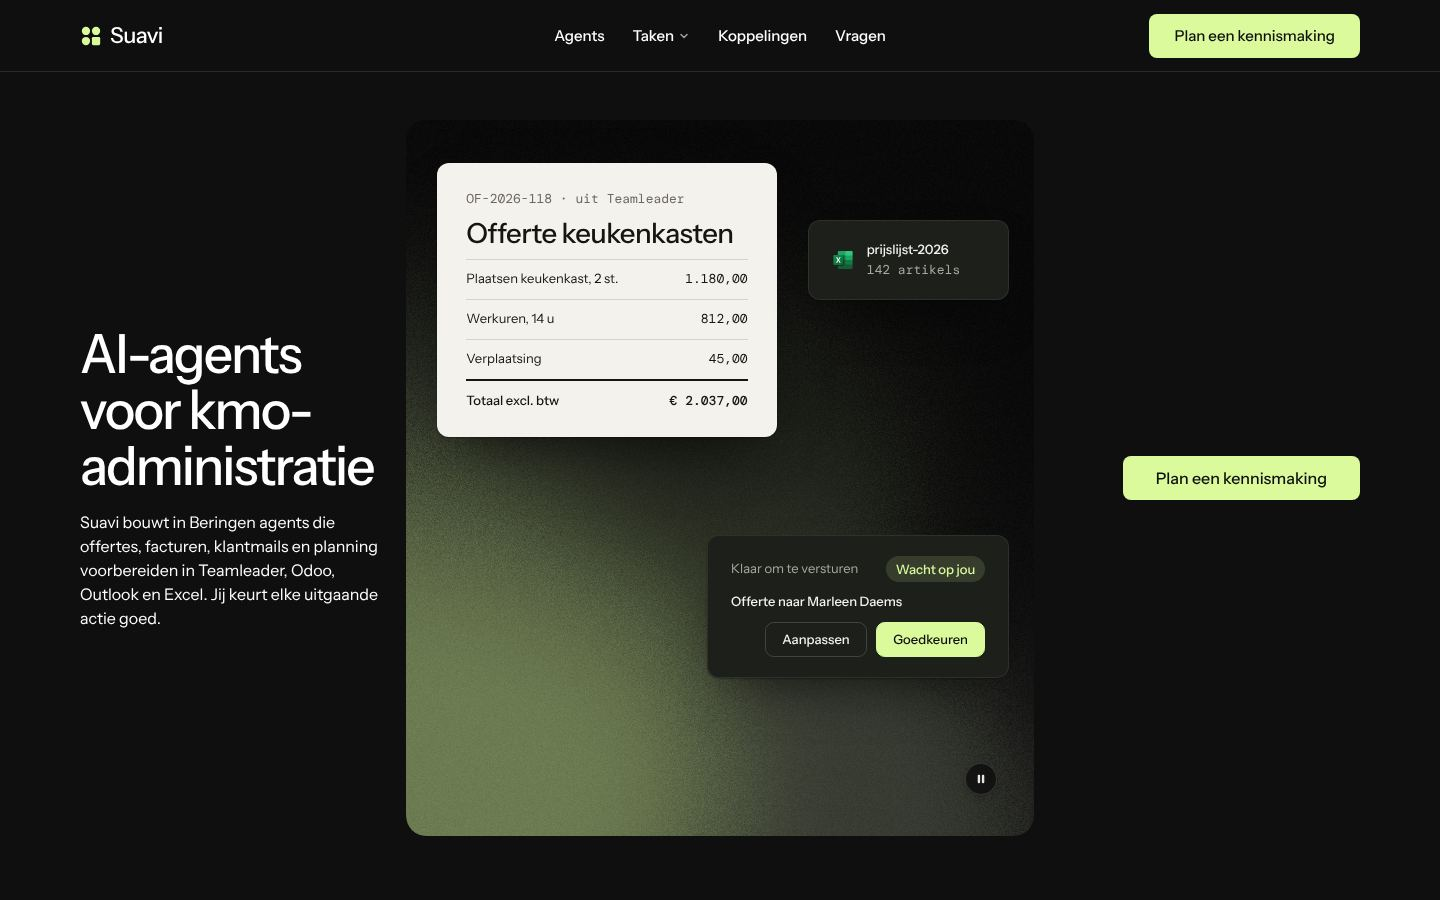
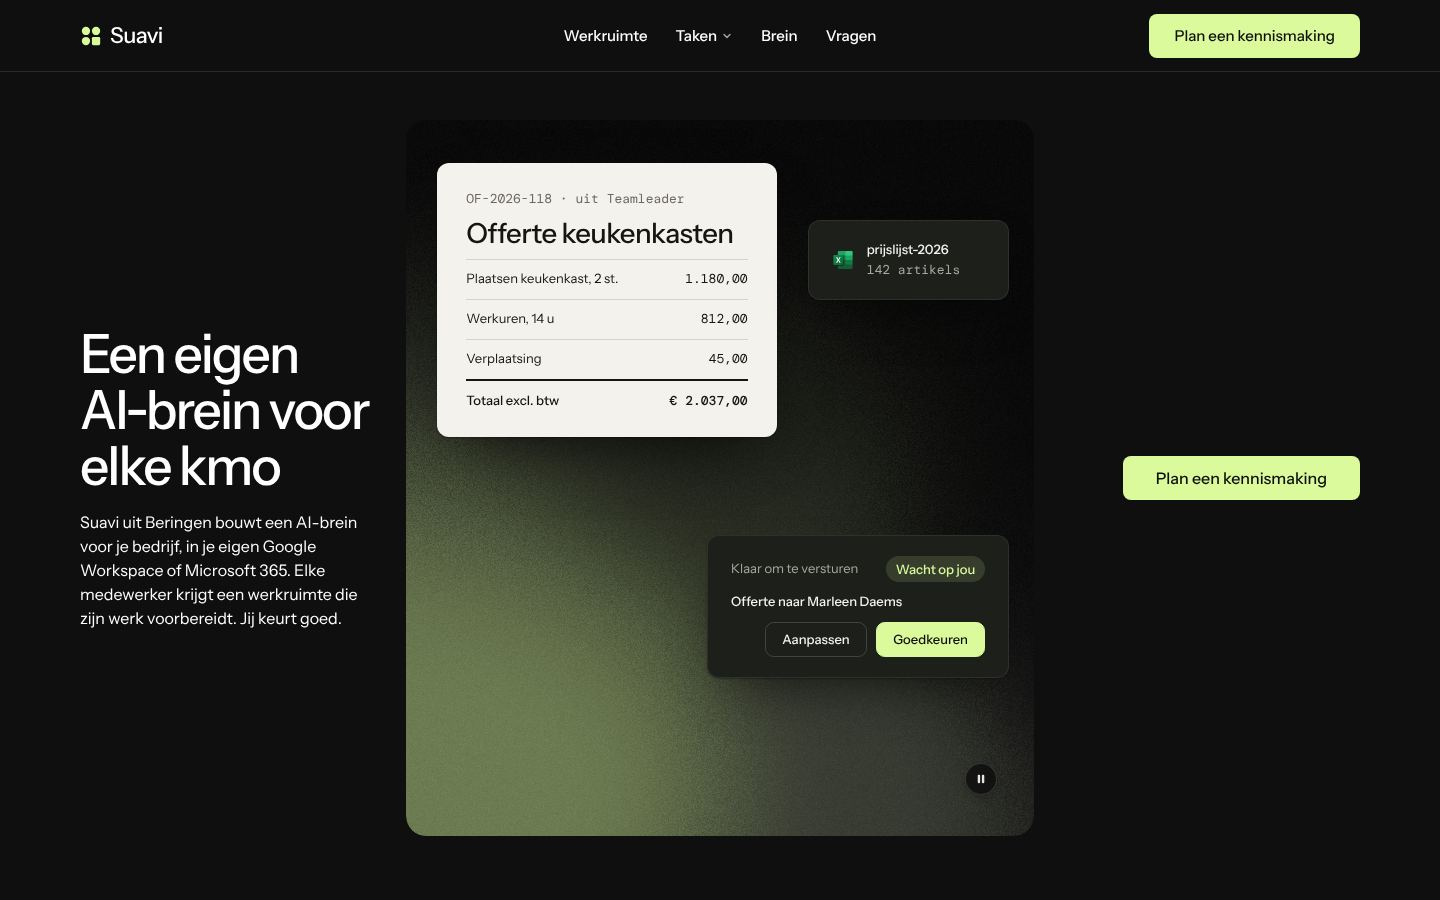
Reposition Suavi site: own AI brain per company, own workspace per employee
Hero, app frame, integrations and FAQ now tell the per-client story: one AI
brain built for each company, a workspace for every employee, running in the
client's own Google Workspace or Microsoft 365. New bowtie diagram from the
client's systems through the brain to each workspace. Gate passes.

Claude-Session: https://claude.ai/code/session_01163rCPn5ZEGJfadxcoxAdc

Changed region(s): [[0.0312, 0.3733, 0.2812, 0.7156], [0.375, 0.0311, 0.625, 0.0622]]

diff --git a/sites/suavi/index.html b/sites/suavi/index.html
@@ -3,11 +3,11 @@
 <head>
 <meta charset="utf-8">
 <meta name="viewport" content="width=device-width, initial-scale=1, viewport-fit=cover">
-<title>Suavi: AI-agents en automatisering voor kmo's in Limburg</title>
-<meta name="description" content="Suavi uit Beringen bouwt maatwerk-automatisering en AI-agents die je administratie voorbereiden in je eigen systemen, met een menselijke goedkeuring op elke uitgaande actie.">
+<title>Suavi: een AI-brein en eigen werkruimtes voor kmo's in Limburg</title>
+<meta name="description" content="Suavi uit Beringen bouwt een AI-brein voor je bedrijf en een eigen werkruimte voor elke medewerker, in je eigen Google Workspace of Microsoft 365. Niets vertrekt zonder goedkeuring.">
 <meta property="og:type" content="website">
-<meta property="og:title" content="Suavi: AI-agents voor kmo-administratie">
-<meta property="og:description" content="Offertes, facturen, klantmails en planning voorbereid in Teamleader, Odoo, Outlook en Excel. Jij keurt goed.">
+<meta property="og:title" content="Suavi: een eigen AI-brein voor elke kmo">
+<meta property="og:description" content="Eén AI-brein per bedrijf, een eigen werkruimte per medewerker. Gebouwd en beheerd door Suavi.">
 <meta property="og:image" content="share.jpg">
 <meta name="twitter:card" content="summary_large_image">
 <link rel="icon" href="favicon.svg" type="image/svg+xml">
@@ -132,13 +132,14 @@
   /* the hero's button at the page's one button height (one action, one look) */
   .hero--triptych .hero__cta .btn { height: var(--btn-h, 44px); font-size: var(--t-body); }
   .close__word { line-height: 1; }
+  #bouwer { overflow: clip; }
   #vragen .grid + .grid { margin-top: 0; }
   @media (min-width: 640px) { #vragen .grid + .grid .faq { border-top: 0; } }
   #taken .panel { --p-h: 336px; }
   @media (max-width: 1279px) { #taken .panel { --p-h: 256px; } }
   @media (max-width: 639px) { #taken .panel { --p-h: 140px; } }
-  #koppelingen .frame { --ratio: 80%; }
-  @media (max-width: 639px) { #koppelingen .frame { --ratio: 76%; } }
+  #brein .frame { --ratio: 80%; }
+  @media (max-width: 639px) { #brein .frame { --ratio: 76%; } }
 </style>
 </head>
 <body>
@@ -153,7 +154,7 @@
     <a class="skip-link" href="#top">Naar de inhoud</a>
     <a class="nav__logo" href="#top"><span class="mark" data-mark="dots" aria-hidden="true"></span>Suavi</a>
     <nav class="nav__links" aria-label="Hoofdmenu">
-      <div class="nav__item"><a class="nav__link" href="#agents">Agents</a></div>
+      <div class="nav__item"><a class="nav__link" href="#werkruimte">Werkruimte</a></div>
       <div class="nav__item">
         <a class="nav__link" href="#taken">Taken <svg class="chev" viewBox="0 0 12 12" aria-hidden="true"><path d="M3 4.5l3 3 3-3" fill="none" stroke="currentColor" stroke-width="1.5" stroke-linecap="round" stroke-linejoin="round"/></svg></a>
         <div class="nav__menu">
@@ -171,7 +172,7 @@
           </div>
         </div>
       </div>
-      <div class="nav__item"><a class="nav__link" href="#koppelingen">Koppelingen</a></div>
+      <div class="nav__item"><a class="nav__link" href="#brein">Brein</a></div>
       <div class="nav__item"><a class="nav__link" href="#vragen">Vragen</a></div>
     </nav>
     <div class="nav__actions">
@@ -187,10 +188,10 @@
   <section class="hero hero--triptych" data-enter aria-labelledby="hero-h">
     <div class="wrap"><div class="hero-text grid hero__grid">
       <div class="span-3">
-        <h1 id="hero-h">AI-agents voor kmo-administratie</h1>
-        <p class="hero__lead">Suavi bouwt in Beringen agents die offertes, facturen, klantmails en planning voorbereiden in Teamleader, Odoo, Outlook en Excel. Jij keurt elke uitgaande actie goed.</p>
+        <h1 id="hero-h">Een eigen AI&#8209;brein voor elke kmo</h1>
+        <p class="hero__lead">Suavi uit Beringen bouwt een AI-brein voor je bedrijf, in je eigen Google Workspace of Microsoft 365. Elke medewerker krijgt een werkruimte die zijn werk voorbereidt. Jij keurt goed.</p>
       </div>
-      <div class="ly-collage span-6 start-4" data-fx="grain-gradient" data-fx-seed="11" role="img" aria-label="Een offerte, een factuur met mail en een weekplanning die een Suavi-agent heeft voorbereid, elk met een knop om goed te keuren">
+      <div class="ly-collage span-6 start-4" data-fx="grain-gradient" data-fx-seed="11" role="img" aria-label="Een offerte, een factuur met mail en een weekplanning die de assistent in iemands werkruimte heeft voorbereid, elk met een knop om goed te keuren">
         <div class="ly-collage__set is-on">
           <div class="ly-piece pc pc-paper pc-a1" style="left: 5%; top: 6%; width: 54%">
             <span class="meta">OF-2026-118 · uit Teamleader</span>
@@ -247,27 +248,27 @@
     </div></div>
   </section>
 
-  <section class="section" id="agents" aria-labelledby="agents-h">
+  <section class="section" id="werkruimte" aria-labelledby="werkruimte-h">
     <div class="wrap">
       <div class="grid">
-        <div class="span-5"><h2 id="agents-h">De wachtrij van je agent</h2></div>
+        <div class="span-5"><h2 id="werkruimte-h">Een eigen werkruimte per medewerker</h2></div>
         <div class="span-6 start-7 stack-4">
-          <p>De agent leest je mailbox en je CRM, zet het werk klaar en wacht. Jij opent een taak, leest het voorstel en keurt het goed of past het aan.</p>
-          <a class="link" href="#koppelingen">Bekijk de koppelingen</a>
+          <p>Elke medewerker opent zijn eigen werkruimte en ziet wat zijn assistent heeft voorbereid. Een taak openen, het voorstel lezen, goedkeuren of aanpassen.</p>
+          <a class="link" href="#brein">Bekijk hoe het brein werkt</a>
         </div>
       </div>
-      <div class="ui app fill" role="img" aria-label="Het venster van een Suavi-agent: links de wachtrij met offertes, facturen en klantvragen, rechts een klantvraag met het voorgestelde antwoord dat wacht op goedkeuring" data-ui-pause-host>
+      <div class="ui app fill" role="img" aria-label="De werkruimte van één medewerker: links zijn taken met offertes, facturen en klantvragen, rechts een klantvraag met het voorgestelde antwoord dat wacht op goedkeuring" data-ui-pause-host>
         <div class="app__pane app__pane--list">
           <div class="ui ui-panel ui-win" data-ui="window" data-open="Klaar voor jou" data-work="Bezig" data-done="Verstuurd">
             <div class="ui-win__bar">
               <span class="ui-dots" aria-hidden="true"><i></i><i></i><i></i></span>
-              <span class="ui-win__crumb">Suavi <i>/</i> <b>Wachtrij</b></span>
+              <span class="ui-win__crumb">Jouw bedrijf <i>/</i> <b>Mijn werkruimte</b></span>
               <span class="ui-spacer"></span>
               <span class="ui-win__search" aria-hidden="true"><svg class="ui-icon" viewBox="0 0 16 16"><circle cx="7" cy="7" r="4.5"/><path d="m10.5 10.5 3 3"/></svg><span class="ui-win__ph">Zoeken</span><span class="ui-kbd">/</span></span>
             </div>
             <div class="ui-win__body">
               <nav class="ui-win__side" aria-hidden="true">
-                <span class="ui-win__nav is-on"><svg class="ui-icon" viewBox="0 0 16 16"><path d="M2.5 9h3l1 1.5h3l1-1.5h3"/><path d="M2.5 9 4 3.5h8L13.5 9v3.5h-11z"/></svg>Wachtrij<em>11</em></span>
+                <span class="ui-win__nav is-on"><svg class="ui-icon" viewBox="0 0 16 16"><path d="M2.5 9h3l1 1.5h3l1-1.5h3"/><path d="M2.5 9 4 3.5h8L13.5 9v3.5h-11z"/></svg>Taken<em>11</em></span>
                 <span class="ui-win__nav"><svg class="ui-icon" viewBox="0 0 16 16"><circle cx="8" cy="6" r="2.5"/><path d="M3.5 13.5c.6-2.3 2.4-3.5 4.5-3.5s3.9 1.2 4.5 3.5"/></svg>Van mij<em>4</em></span>
                 <span class="ui-win__nav"><svg class="ui-icon" viewBox="0 0 16 16"><path d="m3.5 8.4 2.8 2.8 6.2-6.4"/></svg>Verstuurd</span>
                 <span class="ui-win__label">Weergaven</span>
@@ -337,7 +338,7 @@
     <div class="wrap">
       <div class="group">
         <div class="section-head">
-          <h2 id="taken-h">Vier taken die een agent voorbereidt. <span class="muted">Offertes, facturen, klantmails en planning.</span></h2>
+          <h2 id="taken-h">Vier taken die je assistent voorbereidt. <span class="muted">Offertes, facturen, klantmails en planning.</span></h2>
         </div>
         <div class="grid">
           <article class="card card--row span-6">
@@ -439,21 +440,21 @@
     </div>
   </section>
 
-  <section class="section" id="koppelingen" aria-labelledby="koppelingen-h">
+  <section class="section" id="brein" aria-labelledby="brein-h">
     <div class="wrap">
       <div class="grid">
         <div class="span-5 stack-5">
-          <h2 id="koppelingen-h">Gekoppeld aan je bestaande systemen</h2>
-          <p class="t-lead">Suavi bouwt de agent bovenop Teamleader, Odoo, Outlook en Excel. Je team werkt verder in dezelfde programma's.</p>
+          <h2 id="brein-h">Eén AI-brein voor je bedrijf</h2>
+          <p class="t-lead">Suavi bouwt een brein dat je klanten, prijzen en werkwijze kent. Het leest uit Teamleader, Odoo, Outlook en Excel en voedt de werkruimte van elke medewerker.</p>
           <ul class="stack-3 t-body">
+            <li>Draait in je eigen Google Workspace of Microsoft 365</li>
             <li>Gegevens blijven binnen de EU</li>
-            <li>Elke uitgaande actie met goedkeuring</li>
             <li>Beheer en onderhoud door Suavi</li>
           </ul>
           <a class="link" href="#vragen">Lees de vragen over je gegevens</a>
         </div>
         <div class="frame frame--split span-6 start-7">
-          <div class="dg" data-diagram><script type="application/json">{"layout": "hub", "alt": "De Suavi-agent is gekoppeld aan Teamleader, Odoo, Outlook en Excel.", "center": {"label": "Suavi-agent", "icon": "ui:bot"}, "spokes": [{"label": "Teamleader", "icon": "ui:users"}, {"label": "Odoo", "icon": "si:odoo"}, {"label": "Outlook", "icon": "file:file-type-outlook"}, {"label": "Excel", "icon": "xlsx"}]}</script></div>
+          <div class="dg" data-diagram><script type="application/json">{"layout": "bowtie", "alt": "Teamleader, Odoo, Outlook en Excel voeden het AI-brein van het bedrijf, dat de werkruimtes van de zaakvoerder, de boekhouding en de planning bedient.", "sources": [{"label": "Teamleader", "icon": "ui:users", "sub": "Klanten"}, {"label": "Odoo", "icon": "si:odoo", "sub": "Facturen"}, {"label": "Outlook", "icon": "file:file-type-outlook", "sub": "Mail"}, {"label": "Excel", "icon": "xlsx", "sub": "Prijzen"}], "core": {"label": "Jouw AI-brein", "icon": "ui:brain"}, "targets": [{"label": "Zaakvoerder", "icon": "ui:user-check", "sub": "Werkruimte"}, {"label": "Boekhouding", "icon": "ui:receipt", "sub": "Werkruimte"}, {"label": "Planning", "icon": "ui:calendar-days", "sub": "Werkruimte"}]}</script></div>
         </div>
       </div>
     </div>
@@ -468,16 +469,16 @@
           <a class="link" href="mailto:hallo@suavi.example?subject=Vraag">Mail je vraag</a>
         </div>
         <div class="faq span-6 start-7">
-          <div class="faq__item"><h3>Waar staan onze gegevens?</h3><p>Binnen de Europese Unie. Alles wat een agent leest of maakt, blijft in de EU.</p></div>
+          <div class="faq__item"><h3>Gebruikt elk bedrijf dezelfde app?</h3><p>Nee. Elk bedrijf krijgt een eigen brein en elke medewerker een eigen werkruimte, op maat gebouwd.</p></div>
         </div>
       </div>
       <div class="grid">
         <div class="faq span-6 start-7">
-          <div class="faq__item"><h3>Kan de agent zelf iets versturen?</h3><p>Nee. Elke mail, offerte of factuur wacht op de goedkeuring van iemand van je team.</p></div>
-          <div class="faq__item"><h3>Met wie werken we samen?</h3><p>Rechtstreeks met de ontwikkelaar die je oplossing bouwt. Er zit geen accountmanager tussen.</p></div>
-          <div class="faq__item"><h3>Wie houdt de software draaiende?</h3><p>Suavi. We leveren werkende software en blijven die daarna beheren.</p></div>
-          <div class="faq__item"><h3>Bouwen jullie ook websites?</h3><p>Ja. Naast procesautomatisering en AI-agents bouwen we websites op maat.</p></div>
-          <div class="faq__item"><h3>Wat kost een agent?</h3><p>Prijs op aanvraag: elke oplossing is maatwerk voor jouw taken.</p></div>
+          <div class="faq__item"><h3>Wat heb ik nodig?</h3><p>Google Workspace of Microsoft 365. Je werkruimte draait in die eigen omgeving.</p></div>
+          <div class="faq__item"><h3>Waar staan onze gegevens?</h3><p>In je eigen omgeving en binnen de Europese Unie.</p></div>
+          <div class="faq__item"><h3>Kan de assistent zelf iets versturen?</h3><p>Nee. Elke mail, offerte of factuur wacht op de goedkeuring van iemand van je team.</p></div>
+          <div class="faq__item"><h3>Met wie werken we samen?</h3><p>Rechtstreeks met de ontwikkelaar. Suavi bouwt je werkruimtes en blijft ze beheren.</p></div>
+          <div class="faq__item"><h3>Bouwen jullie ook websites?</h3><p>Ja, naast procesautomatisering en AI-werkruimtes bouwen we websites op maat.</p></div>
         </div>
       </div>
     </div>
@@ -497,11 +498,11 @@
       <div class="grid">
         <div class="span-4 stack-4">
           <a class="nav__logo" href="#top"><span class="mark" data-mark="dots" aria-hidden="true"></span>Suavi</a>
-          <p class="footer__lede">Maatwerk-automatisering en AI-agents voor kmo's, uit Beringen.</p>
+          <p class="footer__lede">AI-werkruimtes en automatisering op maat voor kmo's, uit Beringen.</p>
         </div>
-        <div class="span-2 start-7 footer__col"><h3>Aanbod</h3><ul><li><a href="#agents">Agents</a></li><li><a href="#taken">Taken</a></li></ul></div>
+        <div class="span-2 start-7 footer__col"><h3>Aanbod</h3><ul><li><a href="#werkruimte">Werkruimte</a></li><li><a href="#taken">Taken</a></li></ul></div>
         <div class="span-2 footer__col"><h3>Werkwijze</h3><ul><li><a href="#bouwer">Bouwer</a></li><li><a href="#goedkeuring">Goedkeuring</a></li></ul></div>
-        <div class="span-2 footer__col"><h3>Info</h3><ul><li><a href="#koppelingen">Koppelingen</a></li><li><a href="#vragen">Vragen</a></li></ul></div>
+        <div class="span-2 footer__col"><h3>Info</h3><ul><li><a href="#brein">Brein</a></li><li><a href="#vragen">Vragen</a></li></ul></div>
       </div>
       <div class="footer__legal">
         <span>&copy; 2026 Suavi &nbsp; Productnamen en logo's zijn handelsmerken van hun eigenaars.</span>

diff --git a/sites/suavi/PRODUCT.md b/sites/suavi/PRODUCT.md
@@ -6,6 +6,15 @@ Maatwerk: websites, procesautomatisering en AI-agents die administratieve taken 
 (offertes, facturatie, klantcommunicatie, planning). Integreert met de bestaande systemen van de
 klant: Teamleader, Odoo, Outlook, Excel.
 
+## Hoe het product werkt (uitleg van de klant)
+- Per klantbedrijf bouwt Suavi een eigen AI-brein dat hun klanten, prijzen en werkwijze kent.
+- Elke medewerker krijgt een eigen werkruimte (persoonlijke assistent) die op dat brein draait en
+  toont wat er te doen is en wat klaarstaat om goed te keuren.
+- Geen gedeelde app: elke klant krijgt een eigen installatie, in zijn eigen Google Workspace of
+  Microsoft 365. Voorwaarde voor klanten: Workspace of 365.
+- Op de site niet vermelden: Google API-verificatie, CASA, technische koppelingsdetails.
+- De naam "Jarvis" niet gebruiken (merk van Marvel).
+
 ## Vaste feiten (uit de briefing, letterlijk aanhouden)
 - Elke uitgaande actie vraagt een menselijke goedkeuring.
 - Alle gegevens blijven binnen de EU.
@@ -20,6 +29,9 @@ facturen, klantmails en planning, en die hun bestaande software willen houden.
 
 ## Hoofdactie
 Plan een kennismaking (tot er een formulier of agenda is: mailto naar een `.example`-adres).
+
+## Kernboodschap
+Een eigen AI-brein voor elke kmo, een eigen werkruimte per medewerker, draait in je eigen omgeving.
 
 ## Niet in de briefing (niet verzinnen)
 Prijzen, klanten, cijfers, testimonials, straat, e-mailadres, telefoon, logo, foto's.
